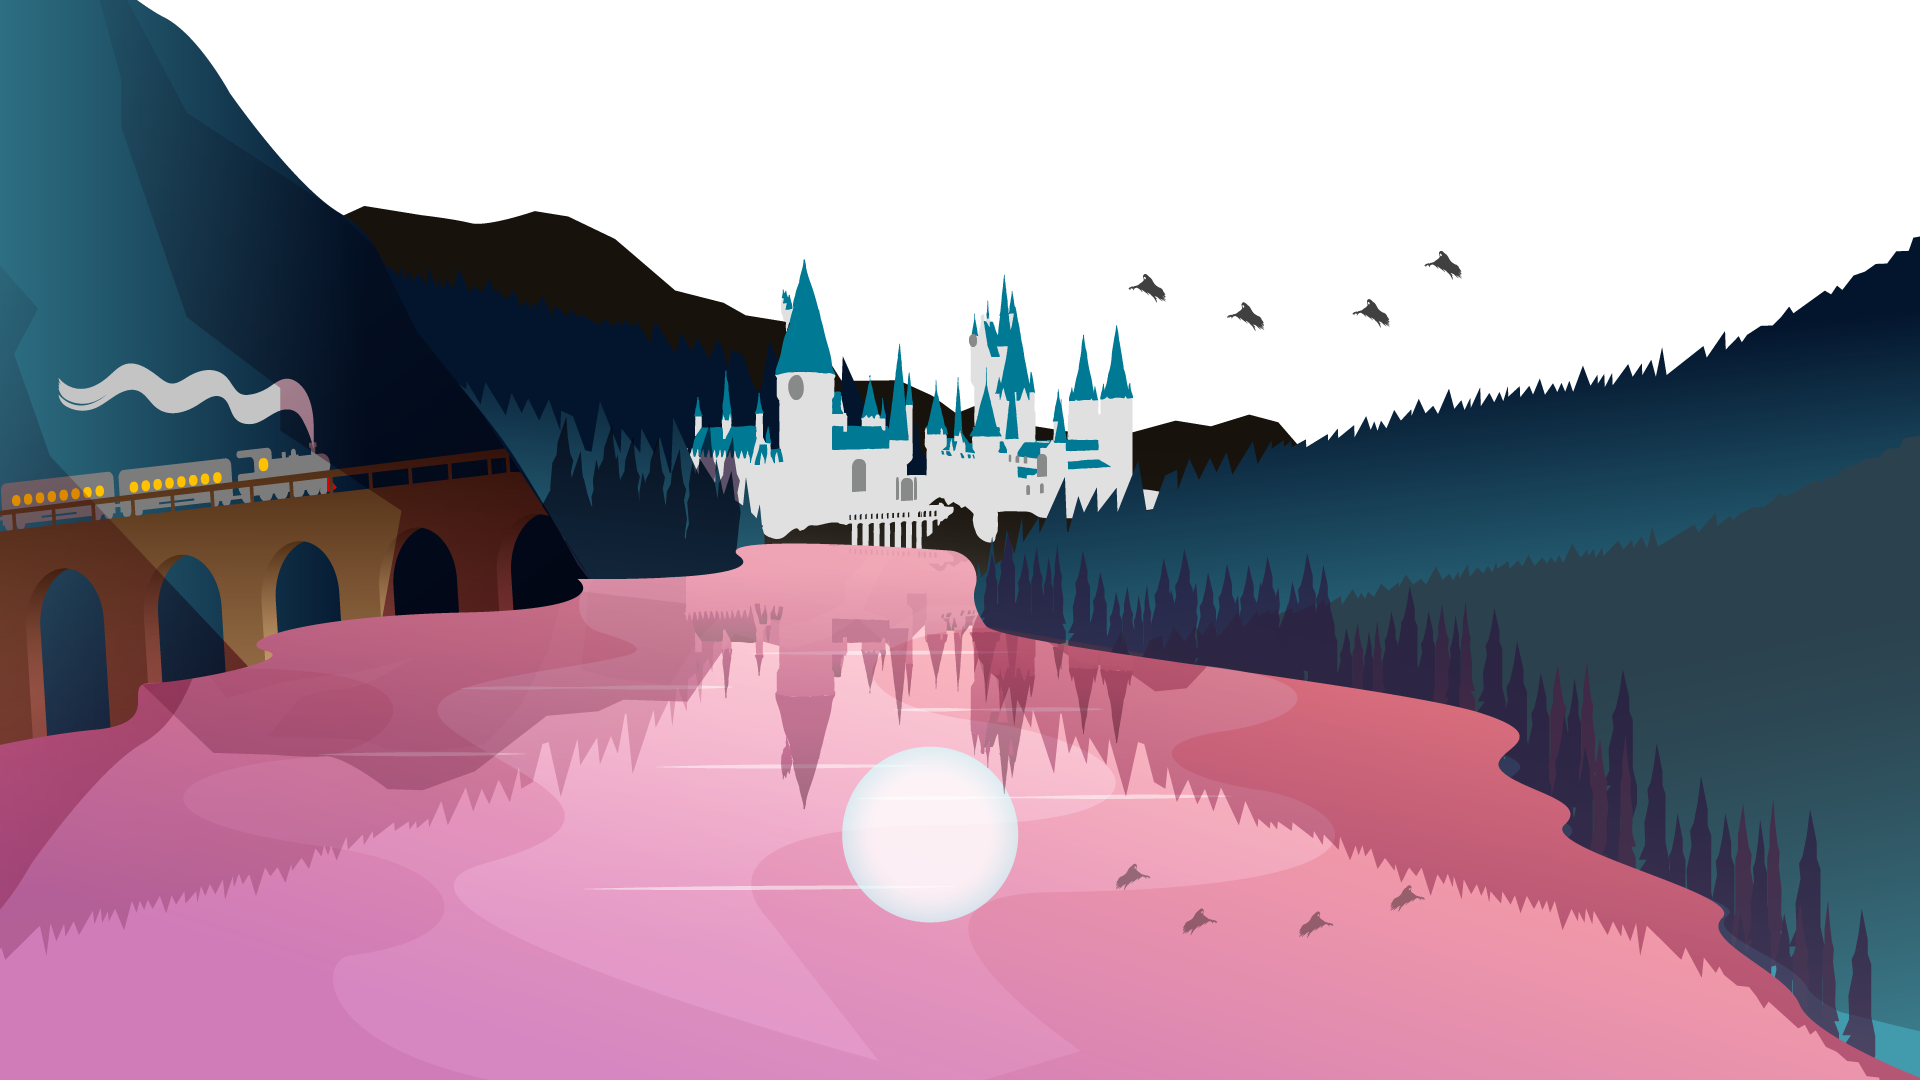
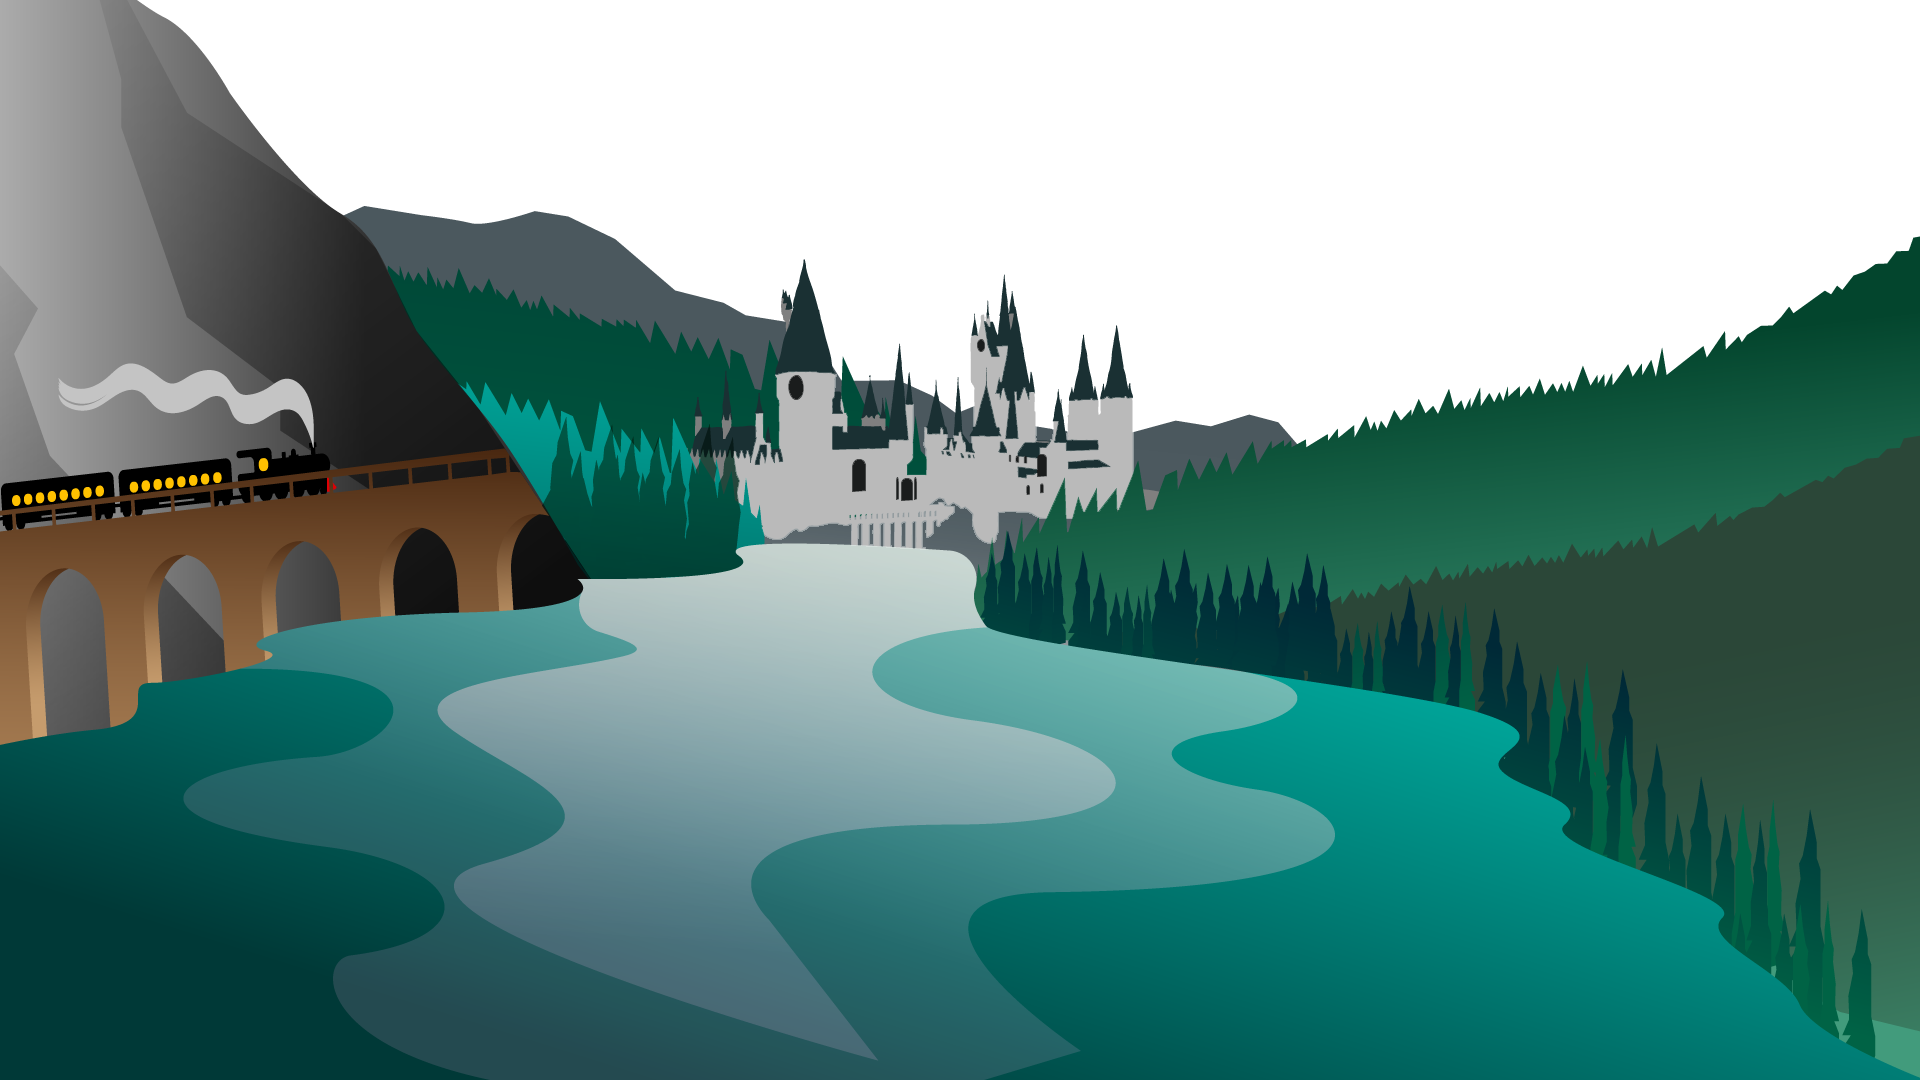
ajout de la fonctionnalité qui permet de changer de thème graphique en fonction de l'heure en plus de l'inté html et css

diff --git a/public/css/style.css b/public/css/style.css
@@ -8,11 +8,11 @@ body{
     background-attachment: fixed, scroll, fixed;
     transition: background 0.2s linear;
     padding-top: 1rem;
-    background-image: url(../images/footer.png), url(../images/bg-middle-sunlight.png), url(../images/bg-body-sunlight.jpg);
+    /* background-image: url(../images/footer.png), url(../images/bg-middle-sunlight.png), url(../images/bg-body-sunlight.jpg);
     background-size: 100%, 100%, cover;
     background-position: bottom 0 center, top center, top 0 center;
     background-repeat: no-repeat;
-    background-attachment: fixed, scroll, fixed;
+    background-attachment: fixed, scroll, fixed; */
   } 
 /* body:hover{
 /*transform: scale(1.3);
@@ -30,7 +30,7 @@ height: 105%;*/
     }
   } */
 
-body.dark{
+.body-dark{
     background-image: 
     url(../images/footer.png),
     url(../images/bg-middle-night.png),
@@ -51,7 +51,37 @@ body.sun{
     background-attachment: fixed, scroll, fixed;
     transition: background 0.2s linear;
     padding-top: 1rem;
-    background-image: url(../images/footer-sun.png), url(../images/bg-middle-sun.png), url(../images/bg-body-sun.jpg);
+    background-image: url(../images/footer-sun.png), url(../images/bg-middle.png), url(../images/bg-body-sun.jpg);
+    background-size: 100%, 100%, cover;
+    background-position: bottom 0 center, top center, top 0 center;
+    background-repeat: no-repeat;
+    background-attachment: fixed, scroll, fixed;
+  } 
+  body.sunlight{
+    font-family: 'Montserrat', sans-serif;
+    font-size: 16px;
+    width: 100%;
+    height: 100%;
+    color: white!important;
+    background-attachment: fixed, scroll, fixed;
+    transition: background 0.2s linear;
+    padding-top: 1rem;
+    background-image: url(../images/footer.png), url(../images/bg-middle-sunlight.png), url(../images/bg-body-sunlight.jpg);
+    background-size: 100%, 100%, cover;
+    background-position: bottom 0 center, top center, top 0 center;
+    background-repeat: no-repeat;
+    background-attachment: fixed, scroll, fixed;
+  } 
+  body.night{
+    font-family: 'Montserrat', sans-serif;
+    font-size: 16px;
+    width: 100%;
+    height: 100%;
+    color: white!important;
+    background-attachment: fixed, scroll, fixed;
+    transition: background 0.2s linear;
+    padding-top: 1rem;
+    background-image: url(../images/footer-night.png), url(../images/bg-middle-night.png), url(../images/bg-body-night.jpg);
     background-size: 100%, 100%, cover;
     background-position: bottom 0 center, top center, top 0 center;
     background-repeat: no-repeat;

diff --git a/public/js/switchLogo.js b/public/js/switchLogo.js
@@ -4,7 +4,7 @@ let app = {
         app.addListenerToActions();
         //app.BgMouseOver();
         //app.BgMouseOut();
-        app.BgChangeHour();
+        app.setHours();
     },
     
     addListenerToActions: function() {
@@ -20,8 +20,8 @@ let app = {
         //logo.classList.remove('logo');
         logo.classList.toggle('dark');
 
-    },/*
-    BgMouseOver: function() {
+    },
+    /*BgMouseOver: function() {
     const el = document.querySelector("#bg");
     const move = 20;
     
@@ -29,30 +29,40 @@ let app = {
     el.style.backgroundPositionX = -10 + "px"; 
     el.style.backgroundPositionY = -10 + "px";
     });
-    }*/BgMouseOver: function() {
+    }BgMouseOver: function() {
     document.querySelector(body).style.backgroundPositionY = "100px"
     },
     BgMouseOut: function() {
         document.querySelector(body).style.backgroundPositionY = "0px"
-    },
-    BgChangeHour: function() {
+    },*/
+    setHours: function(){
         let date = new Date();
         let hours = date.getHours();
-        console.log(hours);
         const body = document.getElementById('body');
-        hours.addEventListener('change', () => {
-            switch(hours) {
-                case(hours <=9): body.classList.toggle('sunlight');
-            break;
-            
-            case(hours <=17): body.classList.toggle('sun');
-            break;
-
-            case(hours <=5): body.classList.toggle('night');
-            break;
-            }
-            });
+        console.log(hours);
+        if (hours > 20 || hours < 6 ){
+            body.classList.add('night');
         }
+        else if (hours < 9 || hours >17){
+            body.classList.add('sunlight');
+        }
+        else if (hours >= 9 || hours < 17){
+            body.classList.add('sun');
+        }
+        else{
+            body.classList.add('night');
+        }
+
+    }
+    // BgChangeHour: function() {
+        
+
+    //     const body = document.getElementById('body');
+        
+    //     hours.addEventListener('change', () => {
+            
+    //         });
+    //     }
         
 };
     document.addEventListener('DOMContentLoaded', app.init );

diff --git a/public/html/index.html b/public/html/index.html
@@ -17,12 +17,12 @@
         <link href="../css/style.css" rel="stylesheet">
         <link href="https://fonts.googleapis.com/css2?family=Montserrat:ital,wght@0,100;0,200;0,300;0,400;0,500;0,600;0,700;0,800;0,900;1,100;1,200;1,300;1,400;1,500;1,600;1,700;1,800;1,900&display=swap" rel="stylesheet">
         <link rel="stylesheet" href="../css/font-awesome.min.css">
-
+        <link rel="icon" href="../images/favicon.ico" />
 
         <title>Potter World</title>
     </head>
 
-    <body onload="set_style_from_cookie()" id="body">
+    <body class="body" id="body">
 
         <header class="top">
             <nav class="navbar navbar-expand-lg navbar-dark ">
